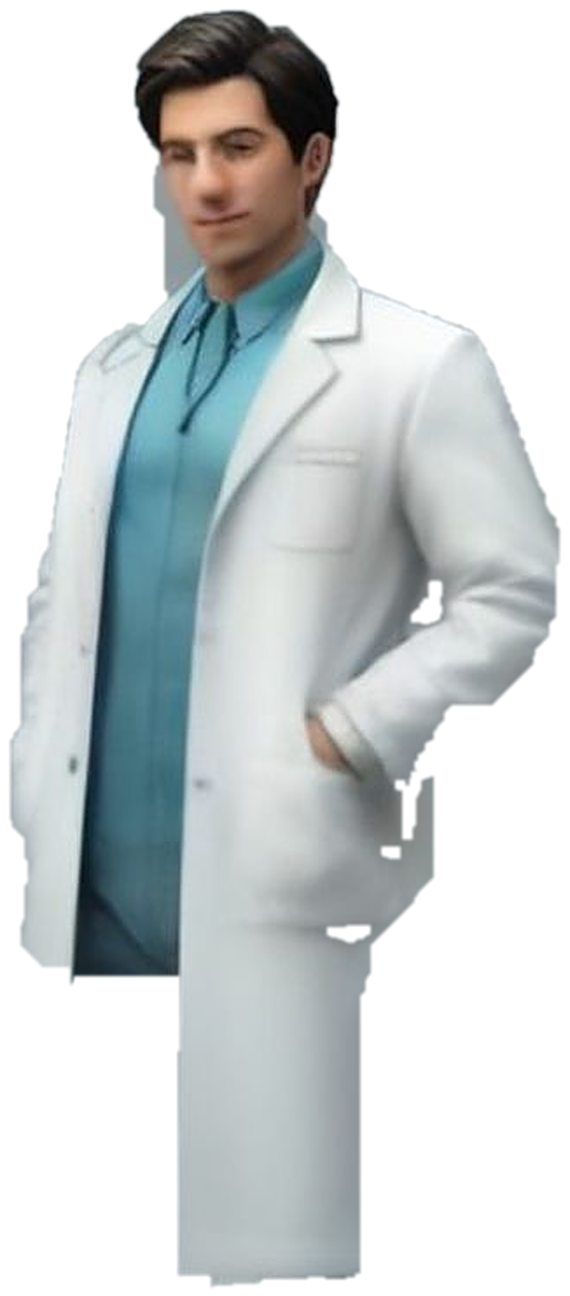
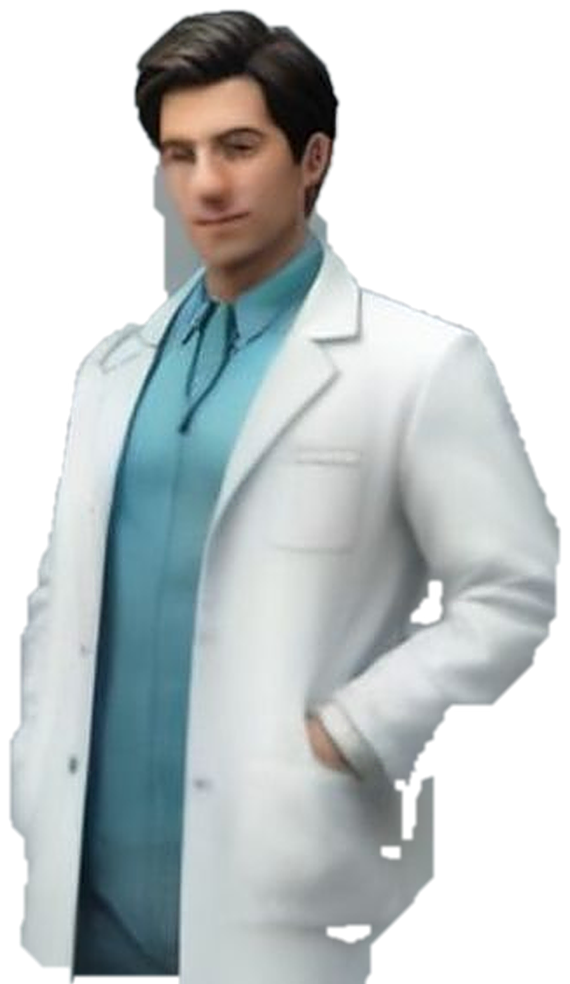
v85b: crop doctor cutout artifacts, clip wrapper, larger presence

diff --git a/public/styles.css b/public/styles.css
@@ -288,7 +288,8 @@ main.wrap section { animation: panelIn var(--t-std) var(--ease) backwards; }
   box-shadow: inset 0 0 0 1px rgba(255,255,255,.55), 0 24px 54px rgba(1,59,53,.14); }
 .hv-panel::before { content: ''; position: absolute; inset: 0; border-radius: inherit; pointer-events: none;
   background: radial-gradient(300px 210px at 50% 90%, rgba(255,255,255,.55), transparent 72%); }
-.hv-doc { position: absolute; left: 50%; bottom: 0; transform: translateX(-50%); height: 97%; width: auto; max-width: none;
+.hv-clip { position: absolute; inset: 0; border-radius: inherit; overflow: hidden; }
+.hv-doc { position: absolute; left: 50%; bottom: -2px; transform: translateX(-50%); height: 104%; width: auto; max-width: none;
   filter: drop-shadow(0 16px 26px rgba(1,59,53,.20)); }
 .hv-card { position: absolute; z-index: 2; display: flex; align-items: center; gap: 10px; padding: 10px 14px; border-radius: 16px;
   background: rgba(255,255,255,.74); backdrop-filter: blur(12px); -webkit-backdrop-filter: blur(12px);

diff --git a/public/index.html b/public/index.html
@@ -83,7 +83,7 @@
       </div>
       <div class="hero-visual" aria-hidden="true">
         <div class="hv-panel">
-          <img class="hv-doc" src="brand/doctor-hero.png" alt="" loading="eager" decoding="async">
+          <div class="hv-clip"><img class="hv-doc" src="brand/doctor-hero.png" alt="" loading="eager" decoding="async"></div>
           <div class="hv-card hv-card-a">
             <span class="hv-ico"><svg viewBox="0 0 24 24" fill="none" stroke="currentColor" stroke-width="2" stroke-linecap="round" stroke-linejoin="round"><path d="M12 2v4M12 18v4M2 12h4M18 12h4"/><circle cx="12" cy="12" r="5"/></svg></span>
             <span class="hv-txt"><strong>8+</strong><small>Specialities</small></span>
